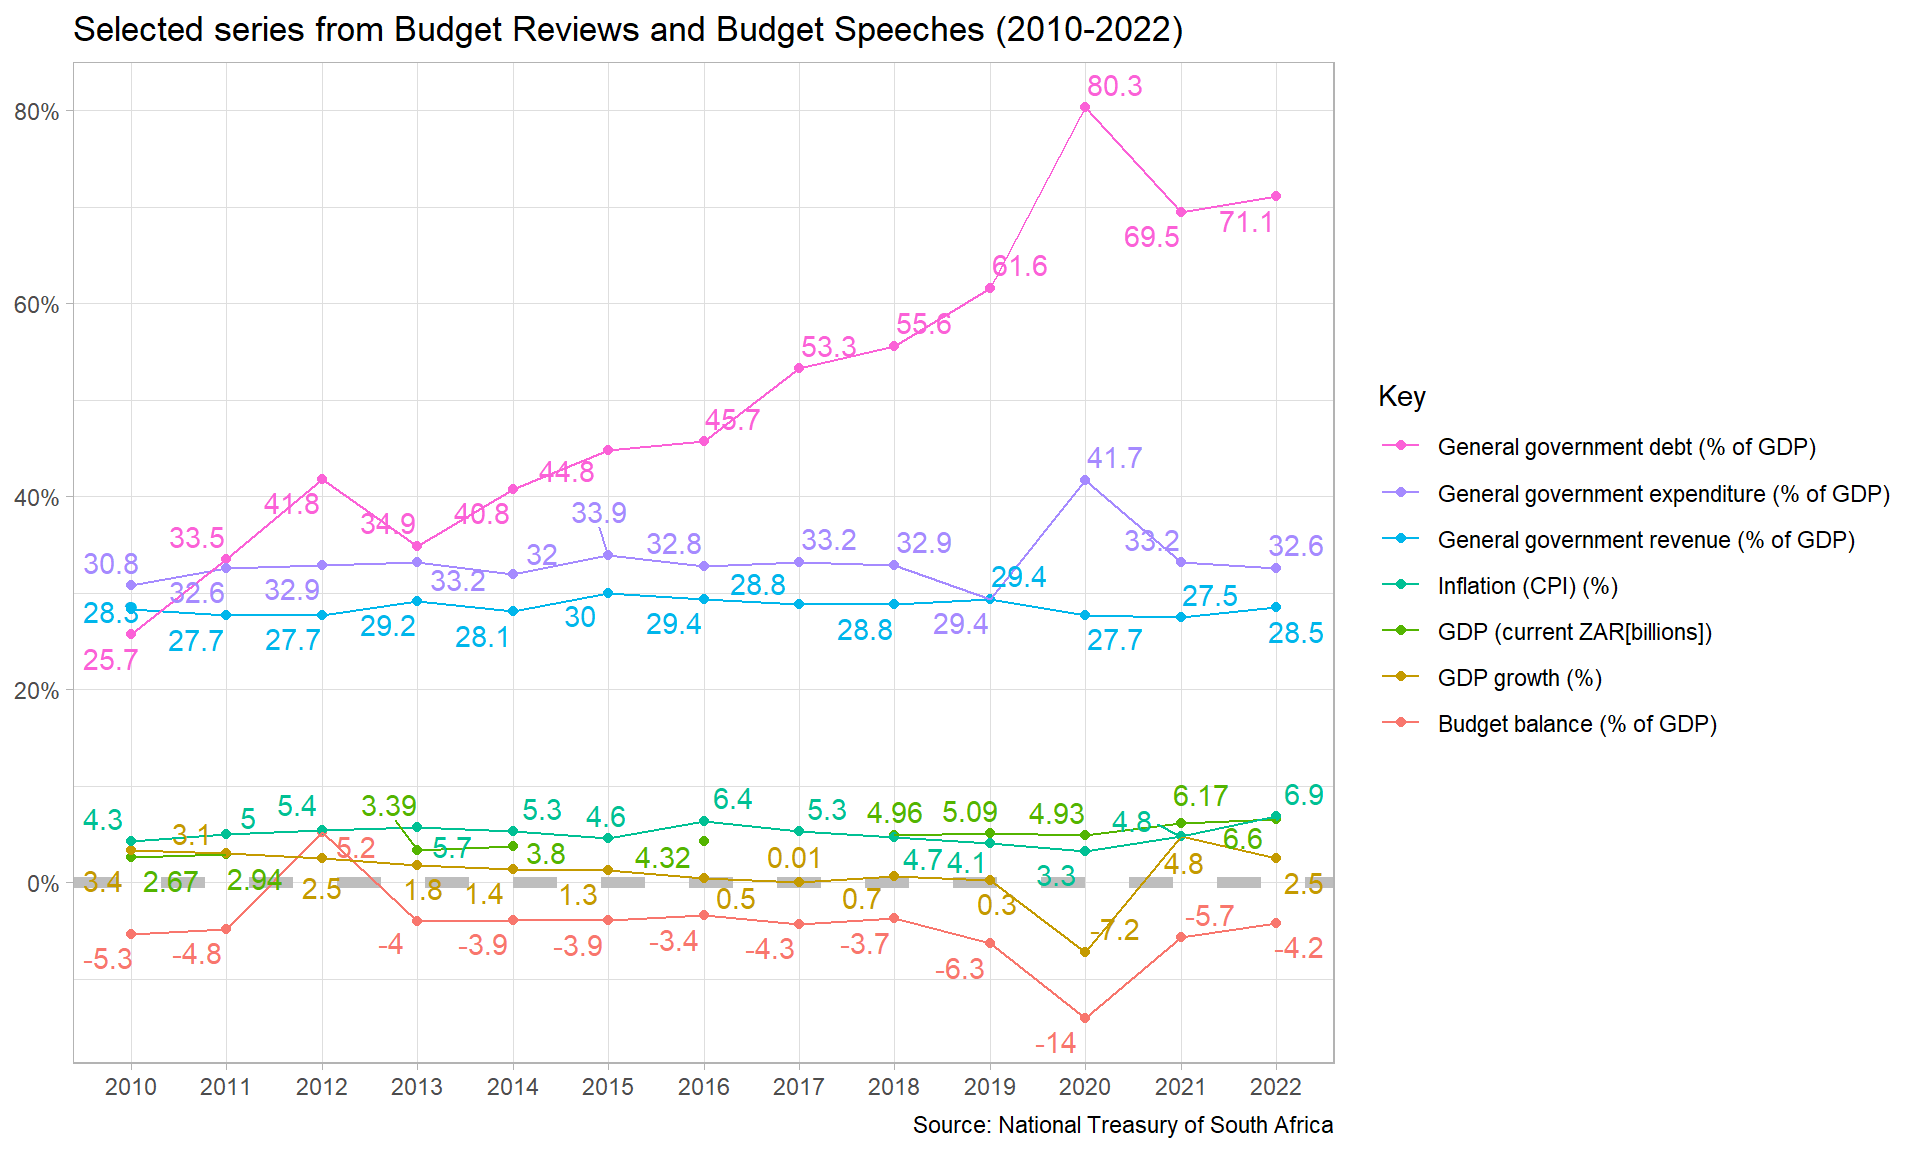
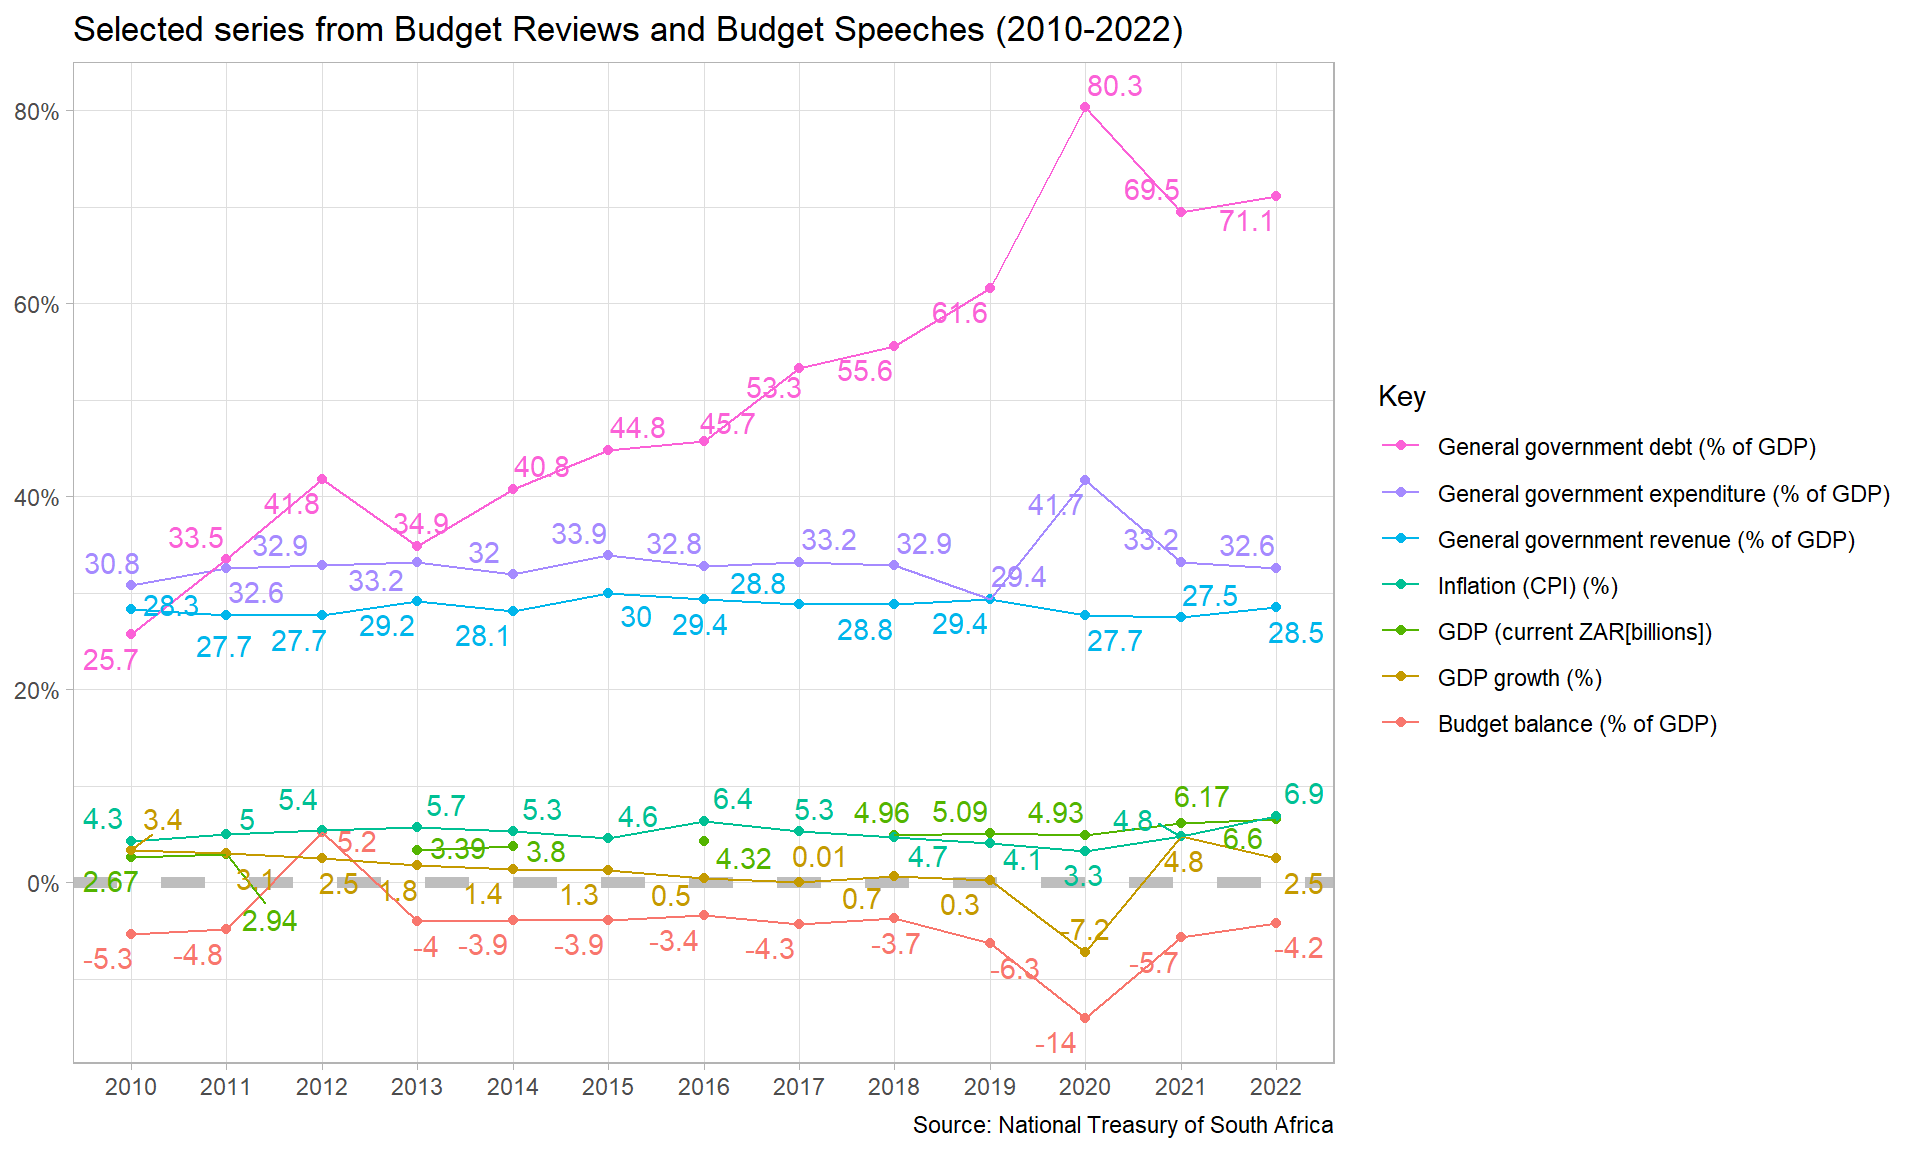
fix colours

diff --git a/docs/index.html b/docs/index.html
@@ -213,7 +213,7 @@ ul.task-list li input[type="checkbox"] {
 
 <div class="quarto-listing quarto-listing-container-default" id="listing-listing">
 <div class="list quarto-listing-default">
-<div class="quarto-post image-right" data-index="0" data-listing-date-sort="1688508000000" data-listing-file-modified-sort="1688996945895" data-listing-reading-time-sort="10.565">
+<div class="quarto-post image-right" data-index="0" data-listing-date-sort="1688508000000" data-listing-file-modified-sort="1688998204891" data-listing-reading-time-sort="10.695">
 <div class="thumbnail">
 <p><a href="./posts/2023-07-05-langchain-demo/langchain-demo.html"> <img src="./posts/2023-07-05-langchain-demo/preview.png" class="thumnail-image"> </a></p>
 </div>